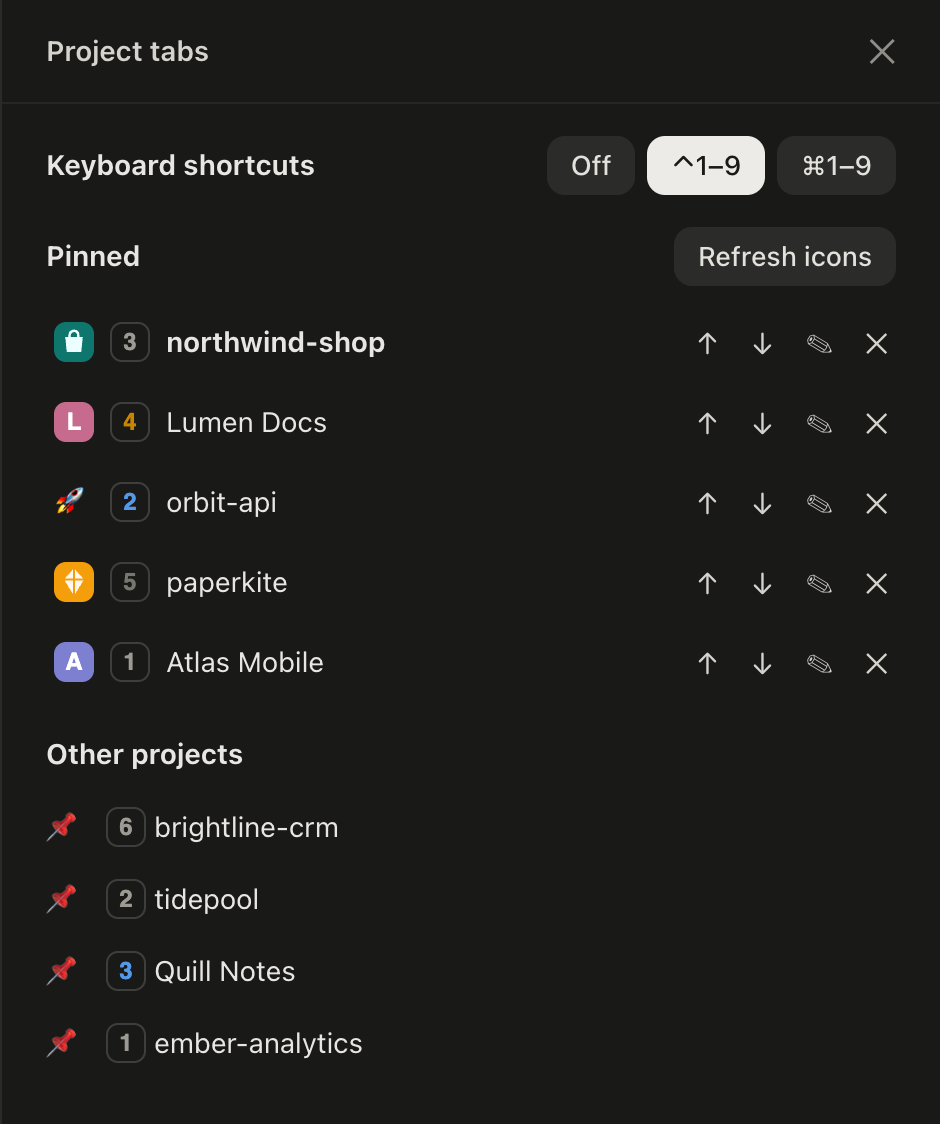
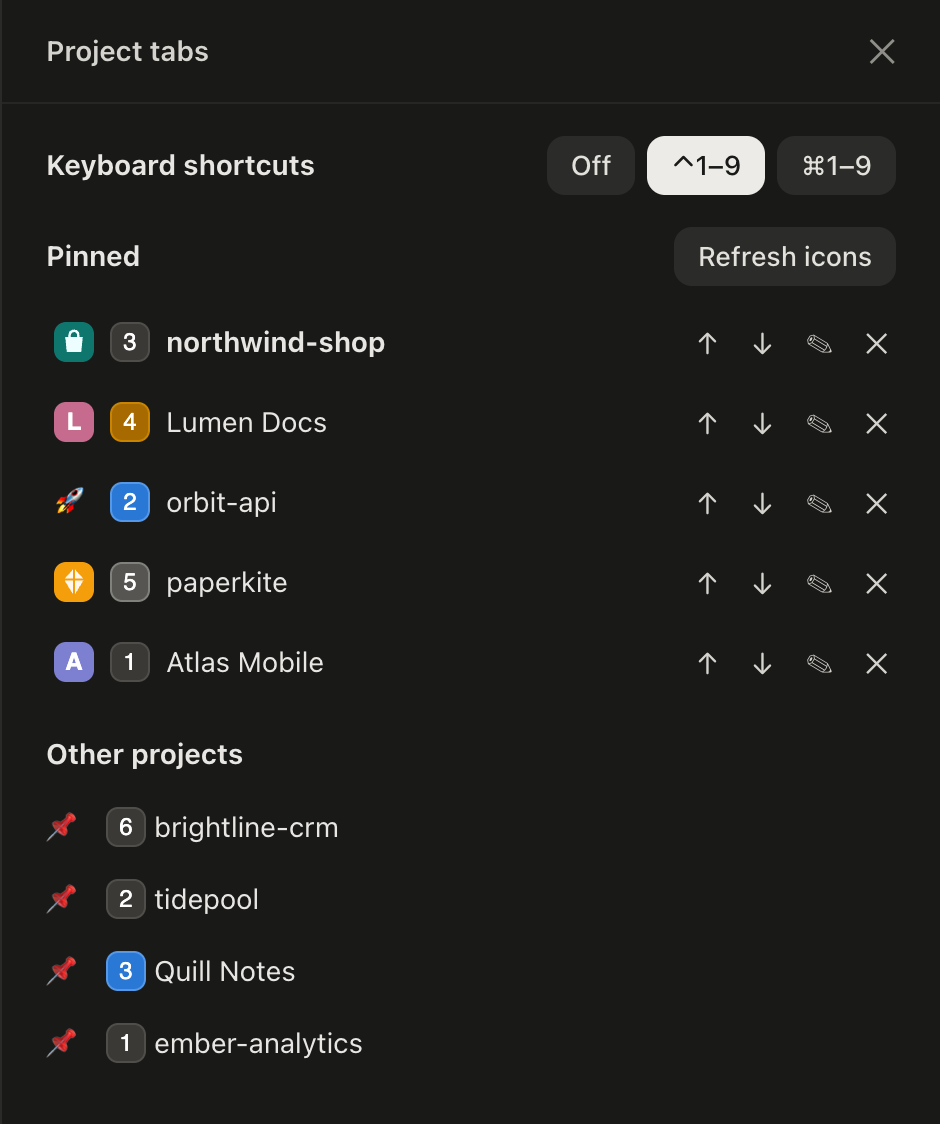
Session status on the count pill's fill and ring, its number white
The count of a tab's sessions is now filled and ringed in the color of the
most urgent state (amber waiting, blue unread, grey running with a pulse,
dark when quiet), with a white, regular-weight number on every state.

Changed region(s): [[0.0926, 0.7162, 0.1543, 0.9653], [0.0926, 0.2802, 0.1851, 0.4671], [0.0926, 0.4982, 0.1851, 0.6228]]

diff --git a/hooks/lib.ts b/hooks/lib.ts
@@ -285,25 +285,36 @@ const DOT_COLORS: Record<SessionState, [string, string]> = {
 
 export const DOT_ROW_HEIGHT = 26
 
-const COUNT_IDLE: [string, string] = ['#73726c', '#9c9a92']
+/** The count pill's fill and ring per state, from the desktop's dot colors: [fill, ring]. */
+const PILL_COLORS: Record<SessionState, { light: [string, string]; dark: [string, string] }> = {
+  waiting: { light: ['#c98500', '#a66a00'], dark: ['#a66a00', '#c98500'] },
+  unread: { light: ['#3987e5', '#2a78d6'], dark: ['#2a78d6', '#5598e7'] },
+  running: { light: ['#8a8a86', '#73726c'], dark: ['#5c5b56', '#8a8a86'] },
+  idle: { light: ['#a3a29c', '#8f8e88'], dark: ['#3a3936', '#4f4e4a'] },
+}
 
 /**
  * The session count as a pill the height of the icon and of the name's own
- * highlight, ringed, its number in the state's color: 4px from the name and
- * 4px from the tab's edge, as the icon sits.
+ * highlight, filled and ringed in the state's color, its number white: 4px
+ * from the name and 4px from the tab's edge, as the icon sits. A running
+ * session's pill pulses, as the sidebar's dot does.
  */
 export function countPillSvg(count: number, state: SessionState): string {
   const text = count > 999 ? '999+' : String(count)
   const pill = Math.max(ICON, 12 + Math.ceil(text.length * 7))
   const width = PAD + pill + PAD
-  const [light, dark] = state === 'idle' ? COUNT_IDLE : DOT_COLORS[state]
+  const { light, dark } = PILL_COLORS[state]
   const style =
-    `<style>.t{fill:${light}}.b{fill:none;stroke:rgba(0,0,0,0.16)}` +
-    `@media (prefers-color-scheme: dark){.t{fill:${dark}}.b{stroke:rgba(255,255,255,0.16)}}</style>`
+    `<style>.b{fill:${light[0]};stroke:${light[1]}}` +
+    `@media (prefers-color-scheme: dark){.b{fill:${dark[0]};stroke:${dark[1]}}}</style>`
+  const pulse =
+    state === 'running'
+      ? '<animate attributeName="opacity" values="1;0.55;1" dur="1.6s" repeatCount="indefinite"/>'
+      : ''
   return (
     `${svgOpen(width, TAB_HEIGHT)}${style}` +
-    `<rect class="b" x="${PAD + 0.5}" y="${PAD + 0.5}" width="${pill - 1}" height="${ICON - 1}" rx="${RADIUS - 0.5}"/>` +
-    `<text class="t" x="${PAD + pill / 2}" y="${TAB_HEIGHT / 2}" font-size="12" font-weight="600" font-family="-apple-system, Helvetica, Arial, sans-serif" text-anchor="middle" dominant-baseline="central">${text}</text></svg>`
+    `<rect class="b" x="${PAD + 0.5}" y="${PAD + 0.5}" width="${pill - 1}" height="${ICON - 1}" rx="${RADIUS - 0.5}" stroke-width="1">${pulse}</rect>` +
+    `<text x="${PAD + pill / 2}" y="${TAB_HEIGHT / 2}" font-size="12" font-weight="400" font-family="-apple-system, Helvetica, Arial, sans-serif" text-anchor="middle" dominant-baseline="central" fill="#ffffff">${text}</text></svg>`
   )
 }
 
